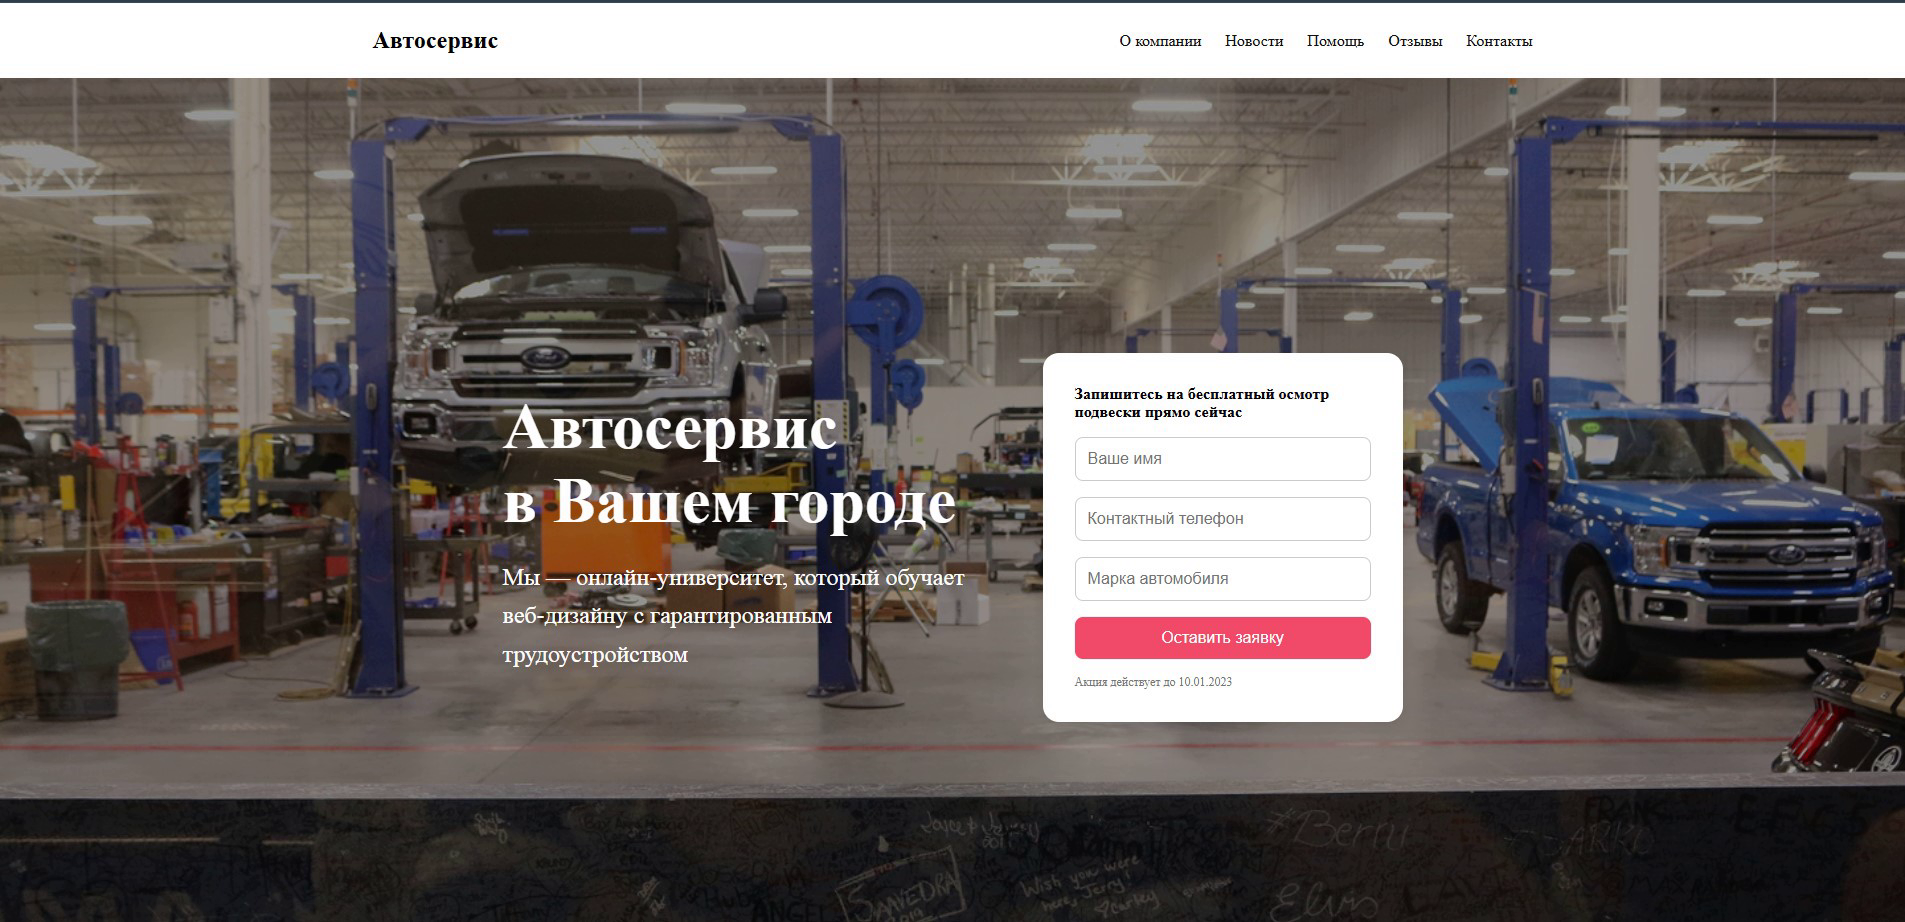
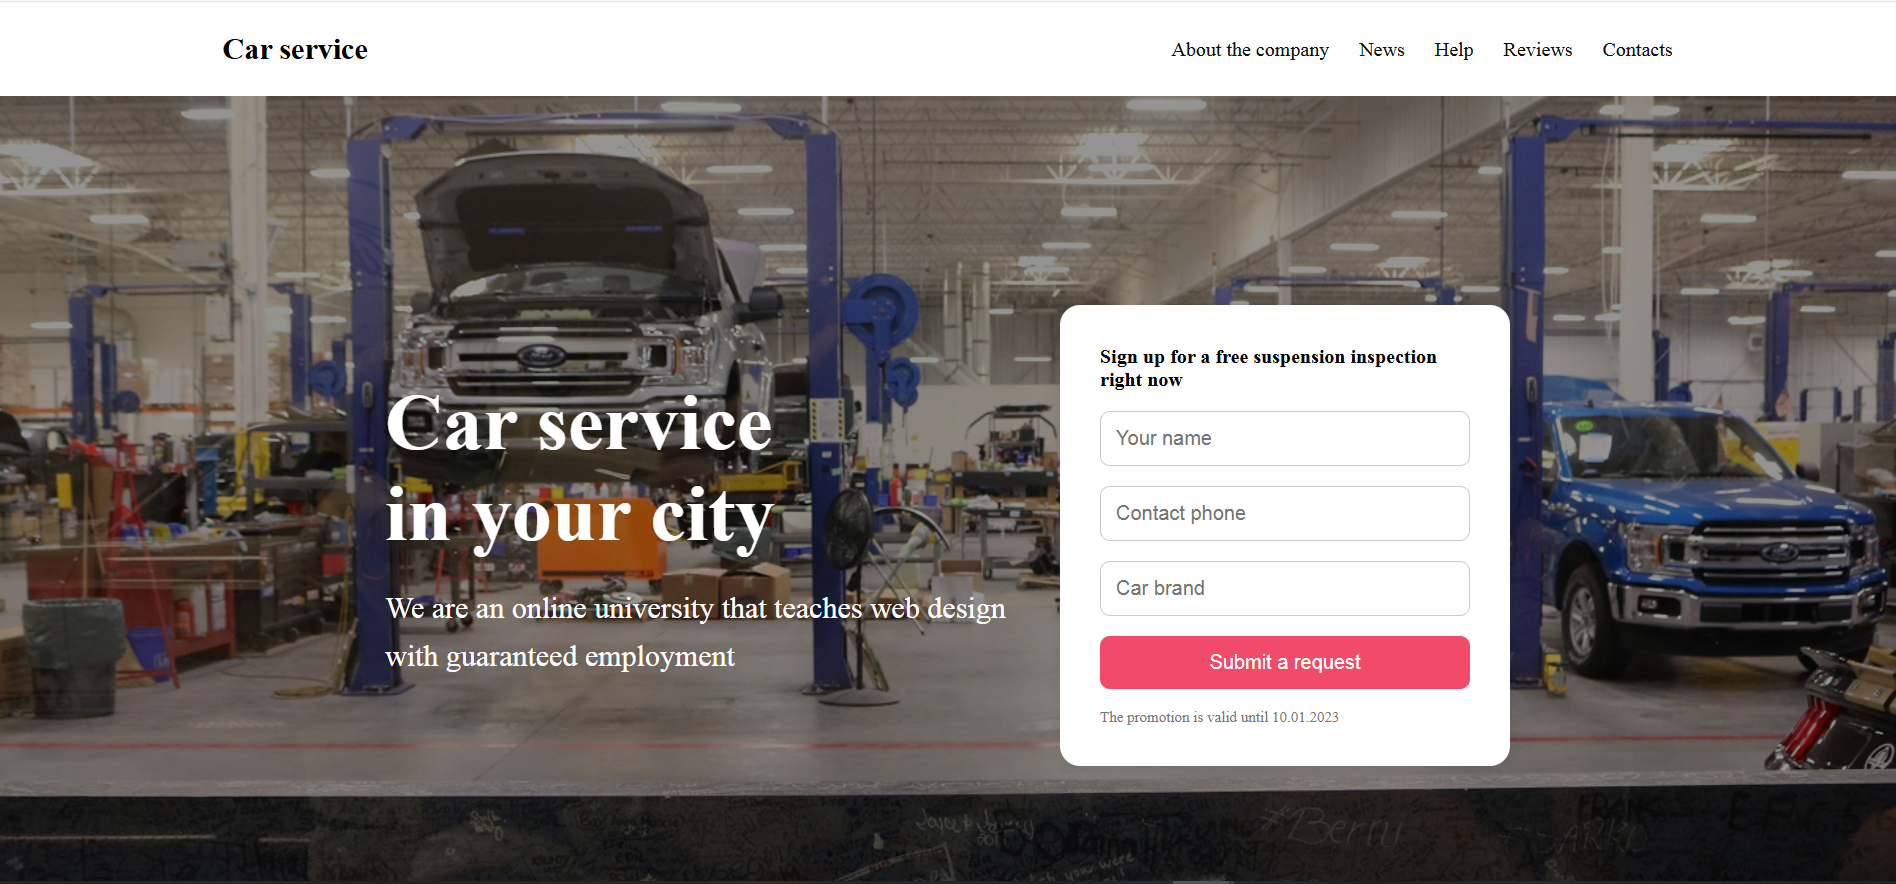
.

diff --git a/wp-theme/index.php b/wp-theme/index.php
@@ -3,203 +3,200 @@
 <main class="site-main">
   <!-- Ваш контент можно вставить сюда -->
   <section class="hero">
-        <div class="hero-overlay">
-          <div class="container hero-content">
-            <div class="hero-text">
-              <h1>Автосервис<br />в Вашем городе</h1>
-              <p>
-                Мы — онлайн-университет, который обучает веб-дизайну с
-                гарантированным трудоустройством
-              </p>
-            </div>
-            <form class="hero-form">
-              <h3>Запишитесь на бесплатный осмотр подвески прямо сейчас</h3>
-              <input type="text" placeholder="Ваше имя" required />
-              <input type="tel" placeholder="Контактный телефон" required />
-              <input type="text" placeholder="Марка автомобиля" />
-              <button type="submit">Оставить заявку</button>
-              <small>Акция действует до 10.01.2023</small>
-            </form>
-          </div>
+    <div class="hero-overlay">
+      <div class="container hero-content">
+        <div class="hero-text">
+          <h1>Car service<br />in your city</h1>
+          <p>
+            We are an online university that teaches web design with guaranteed employment
+          </p>
         </div>
-      </section>
-
-      <section class="about">
-        <div class="about__container">
-          <div class="about__text">
-            <h4 class="about__subtitle">О компании</h4>
-            <h1 class="about__title">Честный ремонт<br />автомобилей</h1>
-            <p class="about__description">
-              Диагностика, техобслуживание, шиномонтаж, кузовной и малярный
-              ремонт любой сложности.
-            </p>
-            <p class="about__description">
-              Быстро, насколько это возможно. Профессионально и аккуратно. Без
-              обмана и непредвиденных трат. С максимальным вниманием к вашей
-              проблеме.
-            </p>
-            <a href="#" class="about__btn">Подробнее</a>
-          </div>
-          <div class="about__images">
-            <div class="about__circle about__circle--top">
-              <img src="<?php echo get_template_directory_uri(); ?>./assets/img/about_1.png" alt="ремонт автомобиля" />
-            </div>
-            <div class="about__circle about__circle--bottom">
-              <img src="<?php echo get_template_directory_uri(); ?>./assets/img/about_2.png" alt="инструменты" />
-            </div>
-          </div>
-        </div>
-      </section>
-      <section class="repair">
-        <div class="repair__overlay">
-          <div class="repair__container">
-            <h2 class="repair__title">Ремонтируем всё</h2>
-            <p class="repair__subtitle">
-              Наши возможности и габариты позволяют ремонтировать даже
-              броневики.
-            </p>
-
-            <div class="repair__grid">
-              <div class="repair__item">
-                <div class="repair__icon">
-                  <i class="fa-solid fa-check"></i>
-                </div>
-                <h3 class="repair__label">Ремзона</h3>
-                <p class="repair__desc">Площадь ремзоны 1000 м²</p>
-              </div>
-
-              <div class="repair__item">
-                <div class="repair__icon">📁</div>
-                <h3 class="repair__label">Склад</h3>
-                <p class="repair__desc">Собственный склад запчастей</p>
-              </div>
-
-              <div class="repair__item">
-                <div class="repair__icon">📄</div>
-                <h3 class="repair__label">10 постов</h3>
-                <p class="repair__desc">10 ремонтных постов</p>
-              </div>
-
-              <div class="repair__item">
-                <div class="repair__icon">%</div>
-                <h3 class="repair__label">Развал-схождение</h3>
-                <p class="repair__desc">
-                  4-х стоечный подъемник для развал-схождения и подъема крупных
-                  авто
-                </p>
-              </div>
-
-              <div class="repair__item">
-                <div class="repair__icon">%</div>
-                <h3 class="repair__label">4 цеха</h3>
-                <p class="repair__desc">
-                  слесарный, кузовной, малярный и арматурный
-                </p>
-              </div>
-
-              <div class="repair__item">
-                <div class="repair__icon">%</div>
-                <h3 class="repair__label">Специалисты</h3>
-                <p class="repair__desc">
-                  18 специалистов с профильной высокой квалификацией
-                </p>
-              </div>
-            </div>
-          </div>
-        </div>
-      </section>
-      <section class="quote">
-        <div class="quote_block container">
-          <img src="<?php echo get_template_directory_uri(); ?>./assets/img/quote.png" alt="цитата" />
-          <blockquote>
-            Наш сертифицированный автосервис предоставляет гарантию на 1 год.
-          </blockquote>
-          <p>— Иван Иванов, директор</p>
-        </div>
-      </section>
-      <section class="frame">
-        <div class="frame-wrapper">
-          <img src="<?php echo get_template_directory_uri(); ?>./assets/img/car.png" alt="frame image" />
-        </div>
-      </section>
-      <section class="certificate">
-        <div class="container">
-          <div class="certificate_block">
-            <div class="certificate_text">
-              <h2>Наши Сертификаты</h2>
-              <p>
-                Мы предоставляем высококачественный сервис и вы можете
-                ознакомиться с нашими сертификатами, которые подтверждают наши
-                гарантии и специфику выполняемых работ.
-              </p>
-            </div>
-            <div class="certificate_img">
-              <img src="<?php echo get_template_directory_uri(); ?>./assets/img/Light.png" alt="сертификат 1" />
-              <img src="<?php echo get_template_directory_uri(); ?>./assets/img/Light-1.png" alt="сертификат 2" />
-              <img src="<?php echo get_template_directory_uri(); ?>./assets/img/Light-2.png" alt="сертификат 3" />
-            </div>
-          </div>
-        </div>
-      </section>
-      <section class="team">
-        <h4 class="team__subtitle">Команда</h4>
-        <h2 class="team__title">Кто мы?</h2>
-        <p class="team__desc">
-          Наша команда собрана исключительно из профессионалов<br />
-          своего дела, которые работают на ваше благо
-        </p>
-
-        <div class="team__list">
-          <div class="team__item">
-            <img
-              src="<?php echo get_template_directory_uri(); ?>./assets/img/team_1.png"
-              alt="Имя Фамилия"
-              class="team__avatar"
-            />
-            <h3 class="team__name">Имя Фамилия</h3>
-            <p class="team__role">Кузовной ремонт</p>
-          </div>
-          <div class="team__item">
-            <img
-              src="<?php echo get_template_directory_uri(); ?>./assets/img/team_2.png"
-              alt="Имя Фамилия"
-              class="team__avatar"
-            />
-            <h3 class="team__name">Имя Фамилия</h3>
-            <p class="team__role">Ремонт двигателей</p>
-          </div>
-          <div class="team__item">
-            <img
-              src="<?php echo get_template_directory_uri(); ?>./assets/img/team_3.png"
-              alt="Имя Фамилия"
-              class="team__avatar"
-            />
-            <h3 class="team__name">Имя Фамилия</h3>
-            <p class="team__role">Ремонт подвески</p>
-          </div>
-          <div class="team__item">
-            <img
-              src="<?php echo get_template_directory_uri(); ?>./assets/img/team_4.png"
-              alt="Имя Фамилия"
-              class="team__avatar"
-            />
-            <h3 class="team__name">Имя Фамилия</h3>
-            <p class="team__role">Администратор</p>
-          </div>
-        </div>
-      </section>
-      <section class="contact-block">
-        <h2>Проблема с автомобилем? Мы поможем!</h2>
-        <form class="contact-form">
-          <input type="tel" placeholder="+7 (000) 000-0000" required />
-          <button type="submit">Связаться с нами</button>
+        <form class="hero-form">
+          <h3>Book your free suspension inspection now</h3>
+          <input type="text" placeholder="Ваше имя" required />
+          <input type="tel" placeholder="Контактный телефон" required />
+          <input type="text" placeholder="Марка автомобиля" />
+          <button type="submit">Leave a request</button>
+          <small>The promotion is valid until 10.01.2023</small>
         </form>
-        <p class="contact-note">
-          Оставляя заявку, вы соглашаетесь на
-          <a href="#">обработку персональных данных</a>
-          и с <a href="#">условиями бронирования счёта</a>
+      </div>
+    </div>
+  </section>
+
+  <section class="about">
+    <div class="about__container">
+      <div class="about__text">
+        <h4 class="about__subtitle">About the company</h4>
+        <h1 class="about__title">Honest repair<br />of cars</h1>
+        <p class="about__description">
+          Diagnostics, maintenance, tire fitting, body and paint
+          repairs of any complexity.
         </p>
-      </section>
+        <p class="about__description">
+          As fast as possible. Professionally and carefully. Without
+
+          cheating and unexpected expenses. With maximum attention to your
+
+          problem.
+        </p>
+        <a href="#" class="about__btn">More details</a>
+      </div>
+      <div class="about__images">
+        <div class="about__circle about__circle--top">
+          <img src="<?php echo get_template_directory_uri(); ?>./assets/img/about_1.png" alt="ремонт автомобиля" />
+        </div>
+        <div class="about__circle about__circle--bottom">
+          <img src="<?php echo get_template_directory_uri(); ?>./assets/img/about_2.png" alt="инструменты" />
+        </div>
+      </div>
+    </div>
+  </section>
+  <section class="repair">
+    <div class="repair__overlay">
+      <div class="repair__container">
+        <h2 class="repair__title">We repair everything</h2>
+        <p class="repair__subtitle">
+          Our capabilities and dimensions allow us to repair even armored vehicles.
+        </p>
+
+        <div class="repair__grid">
+          <div class="repair__item">
+            <div class="repair__icon">
+              <i class="fa-solid fa-check"></i>
+            </div>
+            <h3 class="repair__label">Repair zone</h3>
+            <p class="repair__desc">Repair area 1000 m²</p>
+          </div>
+
+          <div class="repair__item">
+            <div class="repair__icon">📁</div>
+            <h3 class="repair__label">Warehouse</h3>
+            <p class="repair__desc">Own spare parts warehouse</p>
+          </div>
+
+          <div class="repair__item">
+            <div class="repair__icon">📄</div>
+            <h3 class="repair__label">10 posts</h3>
+            <p class="repair__desc">10 repair posts</p>
+          </div>
+
+          <div class="repair__item">
+            <div class="repair__icon">%</div>
+            <h3 class="repair__label">Wheel alignment</h3>
+            <p class="repair__desc">
+              4-post lift for wheel alignment and lifting of large
+
+              cars
+            </p>
+          </div>
+
+          <div class="repair__item">
+            <div class="repair__icon">%</div>
+            <h3 class="repair__label">4 workshops</h3>
+            <p class="repair__desc">
+              metalworking, body shop, painting and reinforcement
+            </p>
+          </div>
+
+          <div class="repair__item">
+            <div class="repair__icon">%</div>
+            <h3 class="repair__label">Specialists</h3>
+            <p class="repair__desc">
+              18 specialists with high profile qualifications
+            </p>
+          </div>
+        </div>
+      </div>
+    </div>
+    </div>
+  </section>
+  <section class="quote">
+    <div class="quote_block container">
+      <img src="<?php echo get_template_directory_uri(); ?>./assets/img/quote.png" alt="quote" />
+      <blockquote>
+        Our certified auto service provides a 1-year warranty.
+      </blockquote>
+      <p>— Ivan Ivanov, Director</p>
+    </div>
+  </section>
+  <section class="frame">
+    <div class="frame-wrapper">
+      <img src="<?php echo get_template_directory_uri(); ?>./assets/img/car.png" alt="frame image" />
+    </div>
+  </section>
+  <section class="certificate">
+    <div class="container">
+      <div class="certificate_block">
+        <div class="certificate_text">
+          <h2>Our Certificates</h2>
+          <p>
+            We provide high-quality service and you can
+            see our certificates, which confirm our
+            guarantees and the specifics of the work performed. </p>
+        </div>
+        <div class="certificate_img">
+          <img src="<?php echo get_template_directory_uri(); ?>./assets/img/Light.png" alt="certificate 1" />
+          <img src="<?php echo get_template_directory_uri(); ?>./assets/img/Light-1.png" alt="certificate 2" />
+          <img src="<?php echo get_template_directory_uri(); ?>./assets/img/Light-2.png" alt="certificate 3" />
+        </div>
+      </div>
+    </div>
+  </section>
+  <section class="team">
+    <h4 class="team__subtitle">Team</h4>
+    <h2 class="team__title">Who are we?</h2>
+    <p class="team__desc">
+      Our team is made up exclusively of professionals<br />
+      in their field, who work for your benefit
+    </p>
+
+    <div class="team__list">
+      <div class="team__item">
+        <img
+          src="<?php echo get_template_directory_uri(); ?>./assets/img/team_1.png"
+          alt="First Name Last Name"
+          class="team__avatar" />
+        <h3 class="team__name">First Name Last Name</h3>
+        <p class="team__role">Body repair</p>
+      </div>
+      <div class="team__item">
+        <img
+          src="<?php echo get_template_directory_uri(); ?>./assets/img/team_2.png"
+          alt="First Name Last Name"
+          class="team__avatar" />
+        <h3 class="team__name">First Name Last Name</h3>
+        <p class="team__role">Engine Repair</p>
+      </div>
+      <div class="team__item">
+        <img
+          src="<?php echo get_template_directory_uri(); ?>./assets/img/team_3.png"
+          alt="First Name Last Name"
+          class="team__avatar" />
+        <h3 class="team__name">First Name Last Name</h3>
+        <p class="team__role">Suspension Repair</p>
+      </div>
+      <div class="team__item">
+        <img
+          src="<?php echo get_template_directory_uri(); ?>./assets/img/team_4.png"
+          alt="First Name Last Name"
+          class="team__avatar" />
+        <h3 class="team__name">First Name Last Name</h3>
+        <p class="team__role">Administrator</p>
+      </div>
+    </div>
+  </section>
+  <section class="contact-block">
+    <h2>Car problem? We will help!</h2>
+    <form class="contact-form">
+      <input type="tel" placeholder="+7 (000) 000-0000" required />
+      <button type="submit">Contact us</button>
+    </form>
+    <p class="contact-note">
+      By leaving a request, you agree to the
+      <a href="#">processing of personal data</a>
+      and with the <a href="#">conditions for booking an account</a>
+    </p>
+  </section>
 
 </main>
 
